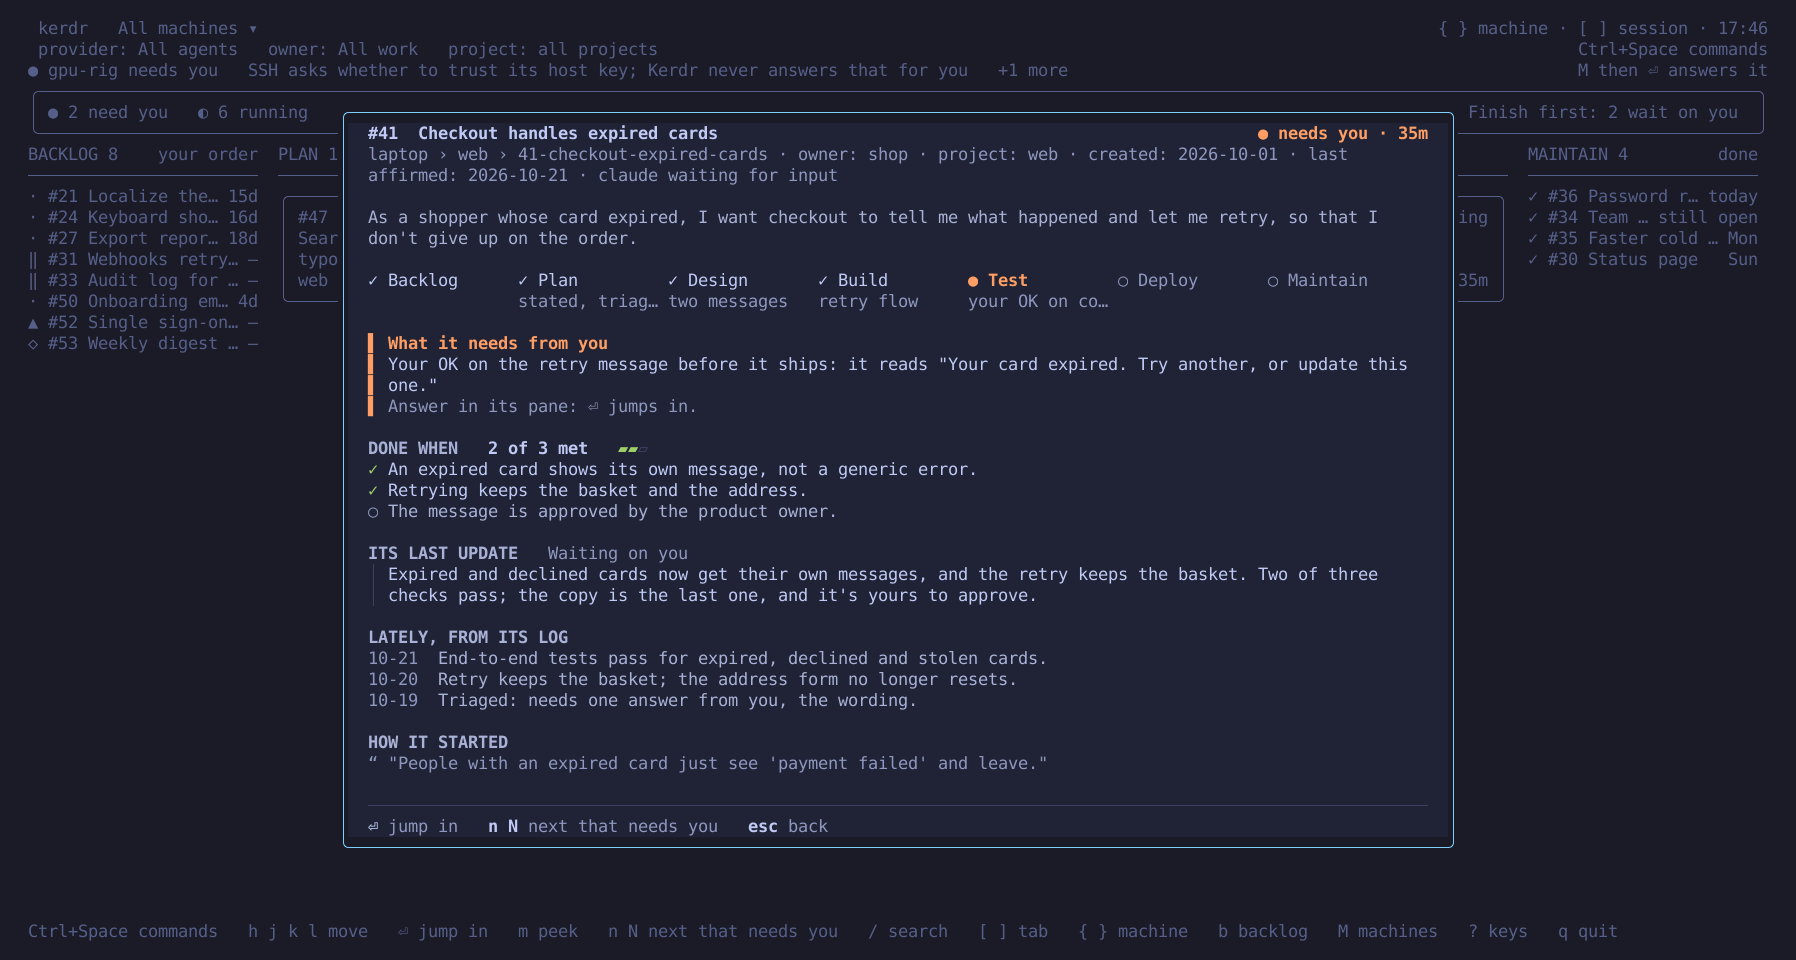
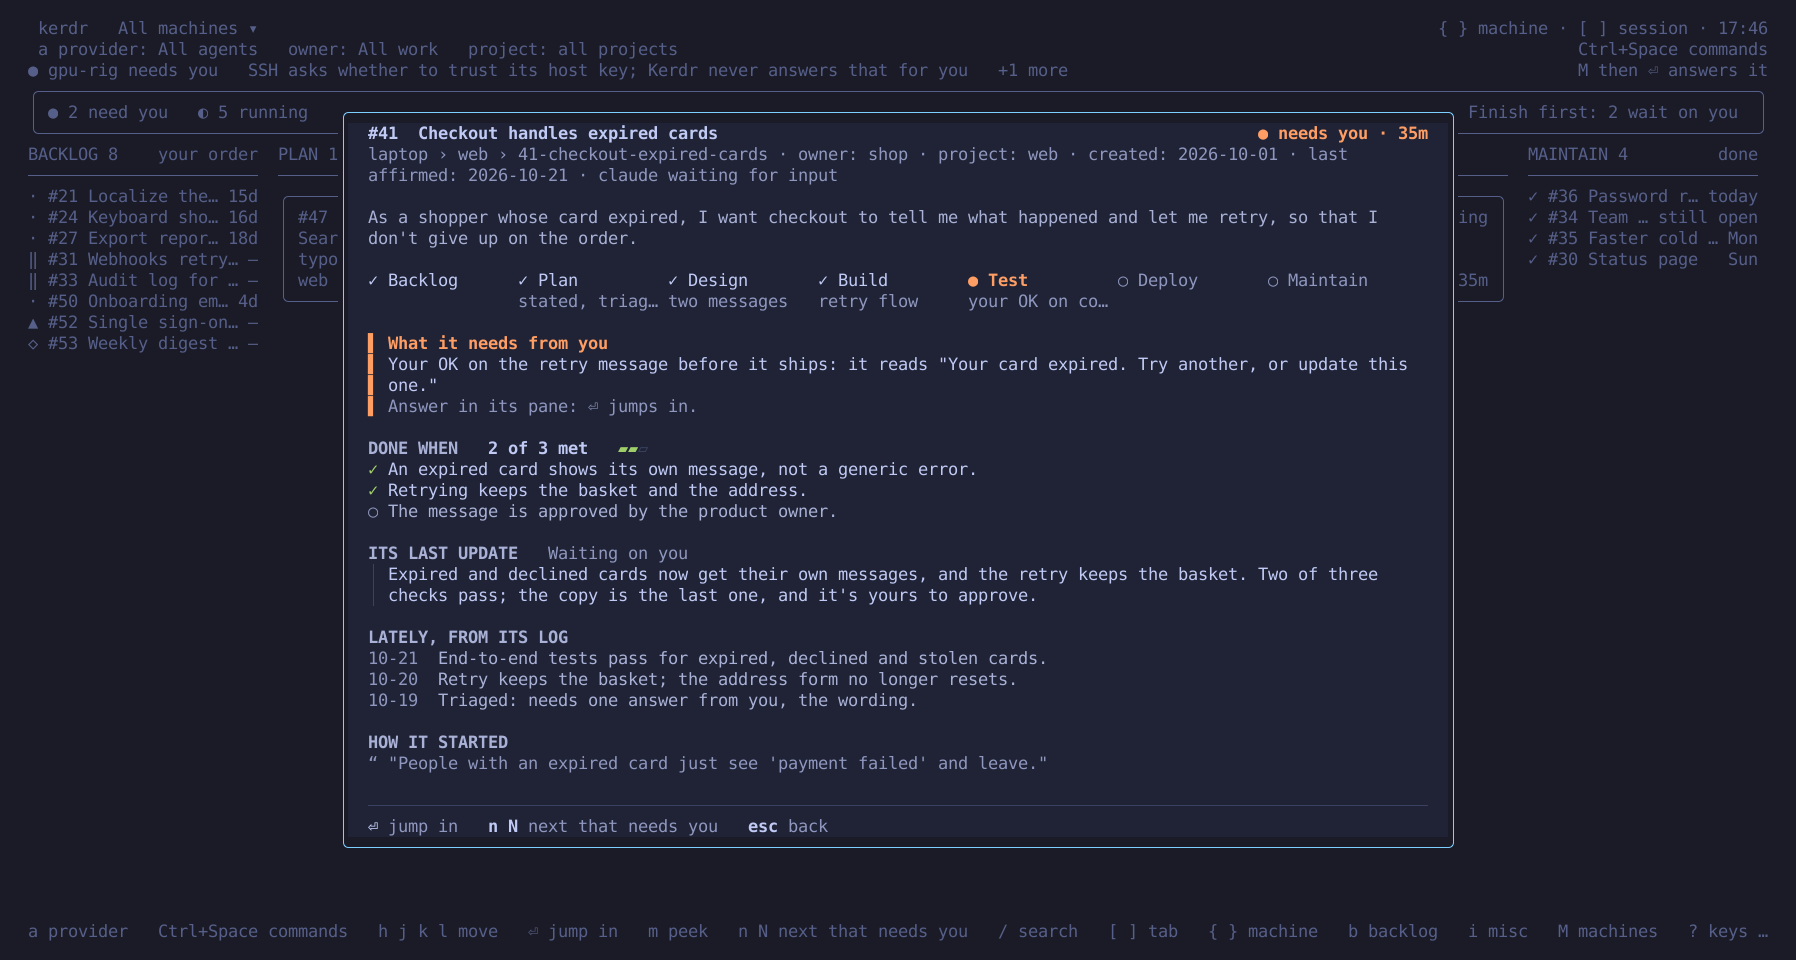
Make provider filtering direct and explain empty-board navigation

diff --git a/src/ui.rs b/src/ui.rs
@@ -283,6 +283,36 @@ fn board_view(f: &mut Frame, area: Rect, app: &App) {
     }
     strip(f, rows[2], app);
     columns(f, rows[3], app);
+    if app
+        .columns()
+        .iter()
+        .zip(app.visible_columns())
+        .all(|(cards, visible)| !visible || cards.is_empty())
+    {
+        let rect = Rect {
+            y: rows[3].y.saturating_add(3),
+            height: rows[3].height.saturating_sub(3),
+            ..rows[3]
+        };
+        let lines = vec![
+            Line::styled("No work cards in this view.", bold(FG2)),
+            Line::raw(""),
+            Line::styled(
+                if app.machine.is_none() {
+                    "{ } choose a machine, then [ ] choose a session"
+                } else {
+                    "[ ] choose session    { } change machine"
+                },
+                fg(CYAN),
+            ),
+            Line::styled("a provider    / search    i Misc", fg(CYAN)),
+            Line::styled("Ctrl+Space commands and work filters", fg(DIM)),
+        ];
+        f.render_widget(
+            Paragraph::new(lines).alignment(ratatui::layout::Alignment::Center),
+            rect,
+        );
+    }
     if let Some(line) = pending {
         put(f.buffer_mut(), rows[4].x, rows[4].y, rows[4].width, line);
     } else if let Some((text, tone)) = message {
@@ -300,6 +330,7 @@ fn board_view(f: &mut Frame, area: Rect, app: &App) {
         );
     }
     let hints = key_hints(&[
+        ("a", "provider"),
         ("Ctrl+Space", "commands"),
         ("h j k l", "move"),
         ("⏎", "jump in"),
@@ -490,7 +521,7 @@ fn header(buf: &mut Buffer, rect: Rect, app: &App) {
 
 fn filters(buf: &mut Buffer, rect: Rect, app: &App) {
     let mut left = vec![
-        Span::styled(format!(" provider: {}", app.provider_label()), fg(CYAN)),
+        Span::styled(format!(" a provider: {}", app.provider_label()), fg(CYAN)),
         Span::styled(format!("   owner: {}", app.owner_label()), fg(CYAN)),
         Span::styled(format!("   project: {}", app.project_label()), fg(CYAN)),
     ];
@@ -1928,7 +1959,7 @@ pub const BOARD_KEYS: &[(&str, &[KeyRow])] = &[
             ("Ctrl+Space", "open commands, then press a key below", ""),
             ("leader n", "compose a new intent", "Ctrl+Enter creates"),
             (
-                "leader a",
+                "a / leader a",
                 "filter by reported agent provider",
                 "all / Claude / Codex / others",
             ),
@@ -3380,6 +3411,24 @@ mod tests {
             a.mode = mode;
             let mut t = Terminal::new(TestBackend::new(80, 24)).unwrap();
             t.draw(|f| draw(f, &a)).unwrap();
+        }
+    }
+
+    #[test]
+    fn empty_board_shows_machine_session_provider_and_misc_navigation() {
+        let mut app = demo(false);
+        app.project = Some("no-matching-project".into());
+        let mut terminal = Terminal::new(TestBackend::new(80, 24)).unwrap();
+        terminal.draw(|f| draw(f, &app)).unwrap();
+        let text = terminal
+            .backend()
+            .buffer()
+            .content
+            .iter()
+            .map(|c| c.symbol())
+            .collect::<String>();
+        for hint in ["No work cards", "[ ]", "{ }", "provider", "Misc"] {
+            assert!(text.contains(hint), "missing {hint}: {text}");
         }
     }
 }

diff --git a/src/app.rs b/src/app.rs
@@ -1347,6 +1347,29 @@ pub fn match_range(query: &str, text: &str) -> Option<(usize, usize)> {
 mod tests {
     use super::*;
 
+    #[test]
+    fn a_cycles_provider_directly_even_when_current_filter_leaves_board_empty() {
+        let mut app = App::new(Config::default(), crate::demo::machines(false));
+        press(&mut app, 'a');
+        assert_eq!(app.provider.as_deref(), Some("claude"));
+        app.project = Some("no-matching-project".into());
+        assert!(app.columns().iter().all(Vec::is_empty));
+        press(&mut app, 'a');
+        assert_eq!(app.provider.as_deref(), Some("codex"));
+        press(&mut app, 'a');
+        assert_eq!(app.provider, None);
+    }
+
+    #[test]
+    fn empty_board_still_switches_machines_and_sessions() {
+        let mut app = App::new(Config::default(), crate::demo::machines(false));
+        app.project = Some("no-matching-project".into());
+        press(&mut app, '}');
+        let machine = app.machine.clone().unwrap();
+        press(&mut app, ']');
+        assert!(matches!(app.scope(), Scope::Session(m, _) if m == &machine));
+    }
+
     fn demo_app() -> App {
         App::new(Config::default(), crate::demo::machines(false))
     }

diff --git a/src/controls.rs b/src/controls.rs
@@ -453,6 +453,18 @@ impl App {
             };
             return Some(Action::None);
         }
+        if key.code == KeyCode::Char('a')
+            && !key
+                .modifiers
+                .intersects(KeyModifiers::CONTROL | KeyModifiers::ALT)
+            && matches!(
+                self.mode,
+                Mode::Board | Mode::Backlog { .. } | Mode::Misc { .. }
+            )
+        {
+            self.cycle_provider();
+            return Some(Action::None);
+        }
         if matches!(self.mode, Mode::Board | Mode::Backlog { .. }) && key.code == KeyCode::Char('w')
         {
             self.enter_backlog(!self.wont_do);

diff --git a/examples/shots.rs b/examples/shots.rs
@@ -340,4 +340,7 @@ fn main() {
         };
     }
     rasterize(&render(&provider), &fonts, &out.join("provider.png"));
+    let mut empty = app(false);
+    empty.project = Some("no-matching-project".into());
+    rasterize(&render(&empty), &fonts, &out.join("empty.png"));
 }

diff --git a/README.md b/README.md
@@ -83,7 +83,8 @@ without them.
 
 The leftmost tab is the machine selector: `All`, then one machine at a time with `{` and `}`.
 Only the selected machine's sessions appear beside it. `[` and `]` move between those sessions,
-and `1` to `9` jump straight to a session. `0` returns to the all-machine overview.
+and `1` to `9` jump straight to a session. `0` returns to the all-machine overview. Machine and session keys work even when the current
+board is empty; the empty view shows these keys and how to reach Misc conversations.
 
 Kerdr reads every machine you list, over SSH, with one round trip per read and one shared SSH
 connection per machine. It never answers a prompt for you. Jumping into a card on another
@@ -127,7 +128,7 @@ already done. Session and workspace results follow the same filters; switch to A
 
 Ctrl+Space then `n` opens the new-intent form. Choose its organization, optional tenant,
 project, machine and session, then save it to the backlog. Creation does not start an agent.
-Ctrl+Space then `t` cycles owner/tenant views; `p` cycles project views. Ctrl+Space then `a`
+Ctrl+Space then `t` cycles owner/tenant views; `p` cycles project views. `a` (or Ctrl+Space then `a`)
 filters by the provider herdr reports: All, Claude, Codex, and additional detected providers.
 Cards with no reported agent appear in All. These filters combine with machine and session
 selection. Organization work stays distinct from tenant work.
@@ -151,6 +152,7 @@ own record system validate and persist changes. Without an adapter, Kerdr remain
 | `{` / `}` | previous / next machine (also `Ctrl+Alt+Shift+h/l`) |
 | `0`, `1`..`9` | every session, or session tab 1 to 9 |
 | `/` | search |
+| `a` | cycle provider: All, Claude, Codex, and detected providers |
 | `b` | backlog |
 | `w` | toggle Won't do view |
 | `Ctrl+Space` | intent controls: new, dispatch, affirm, order, filters, restore |
